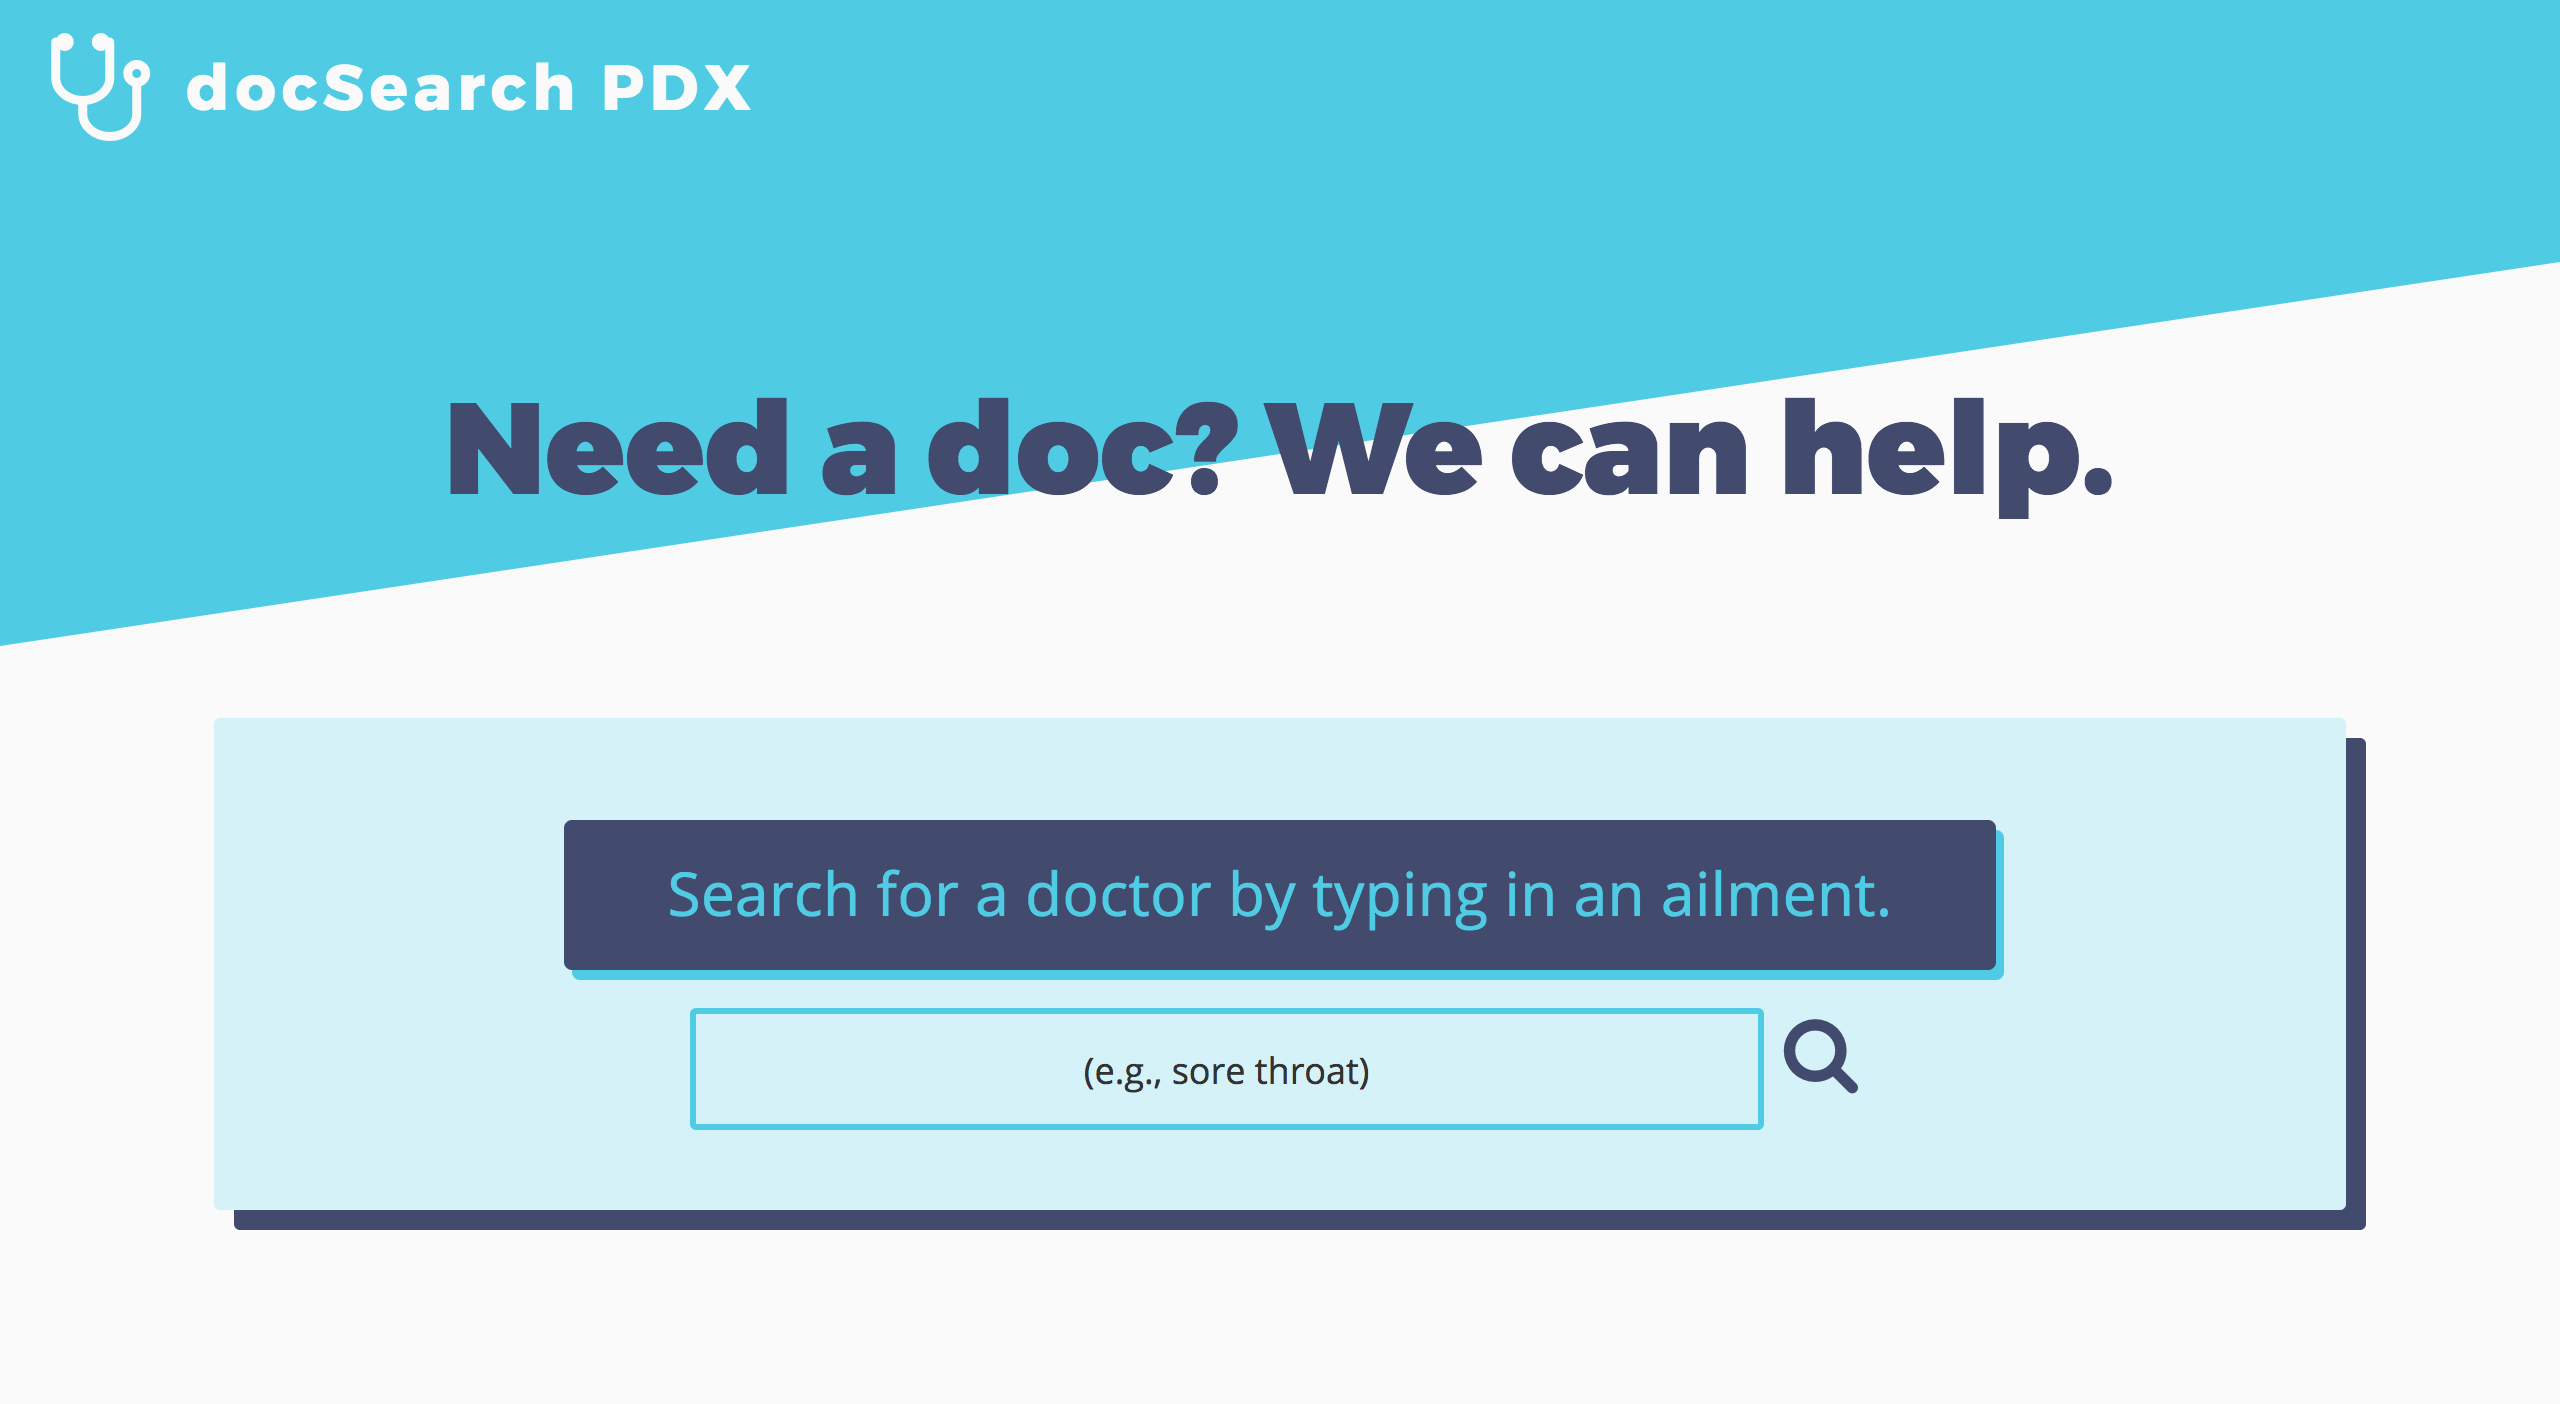
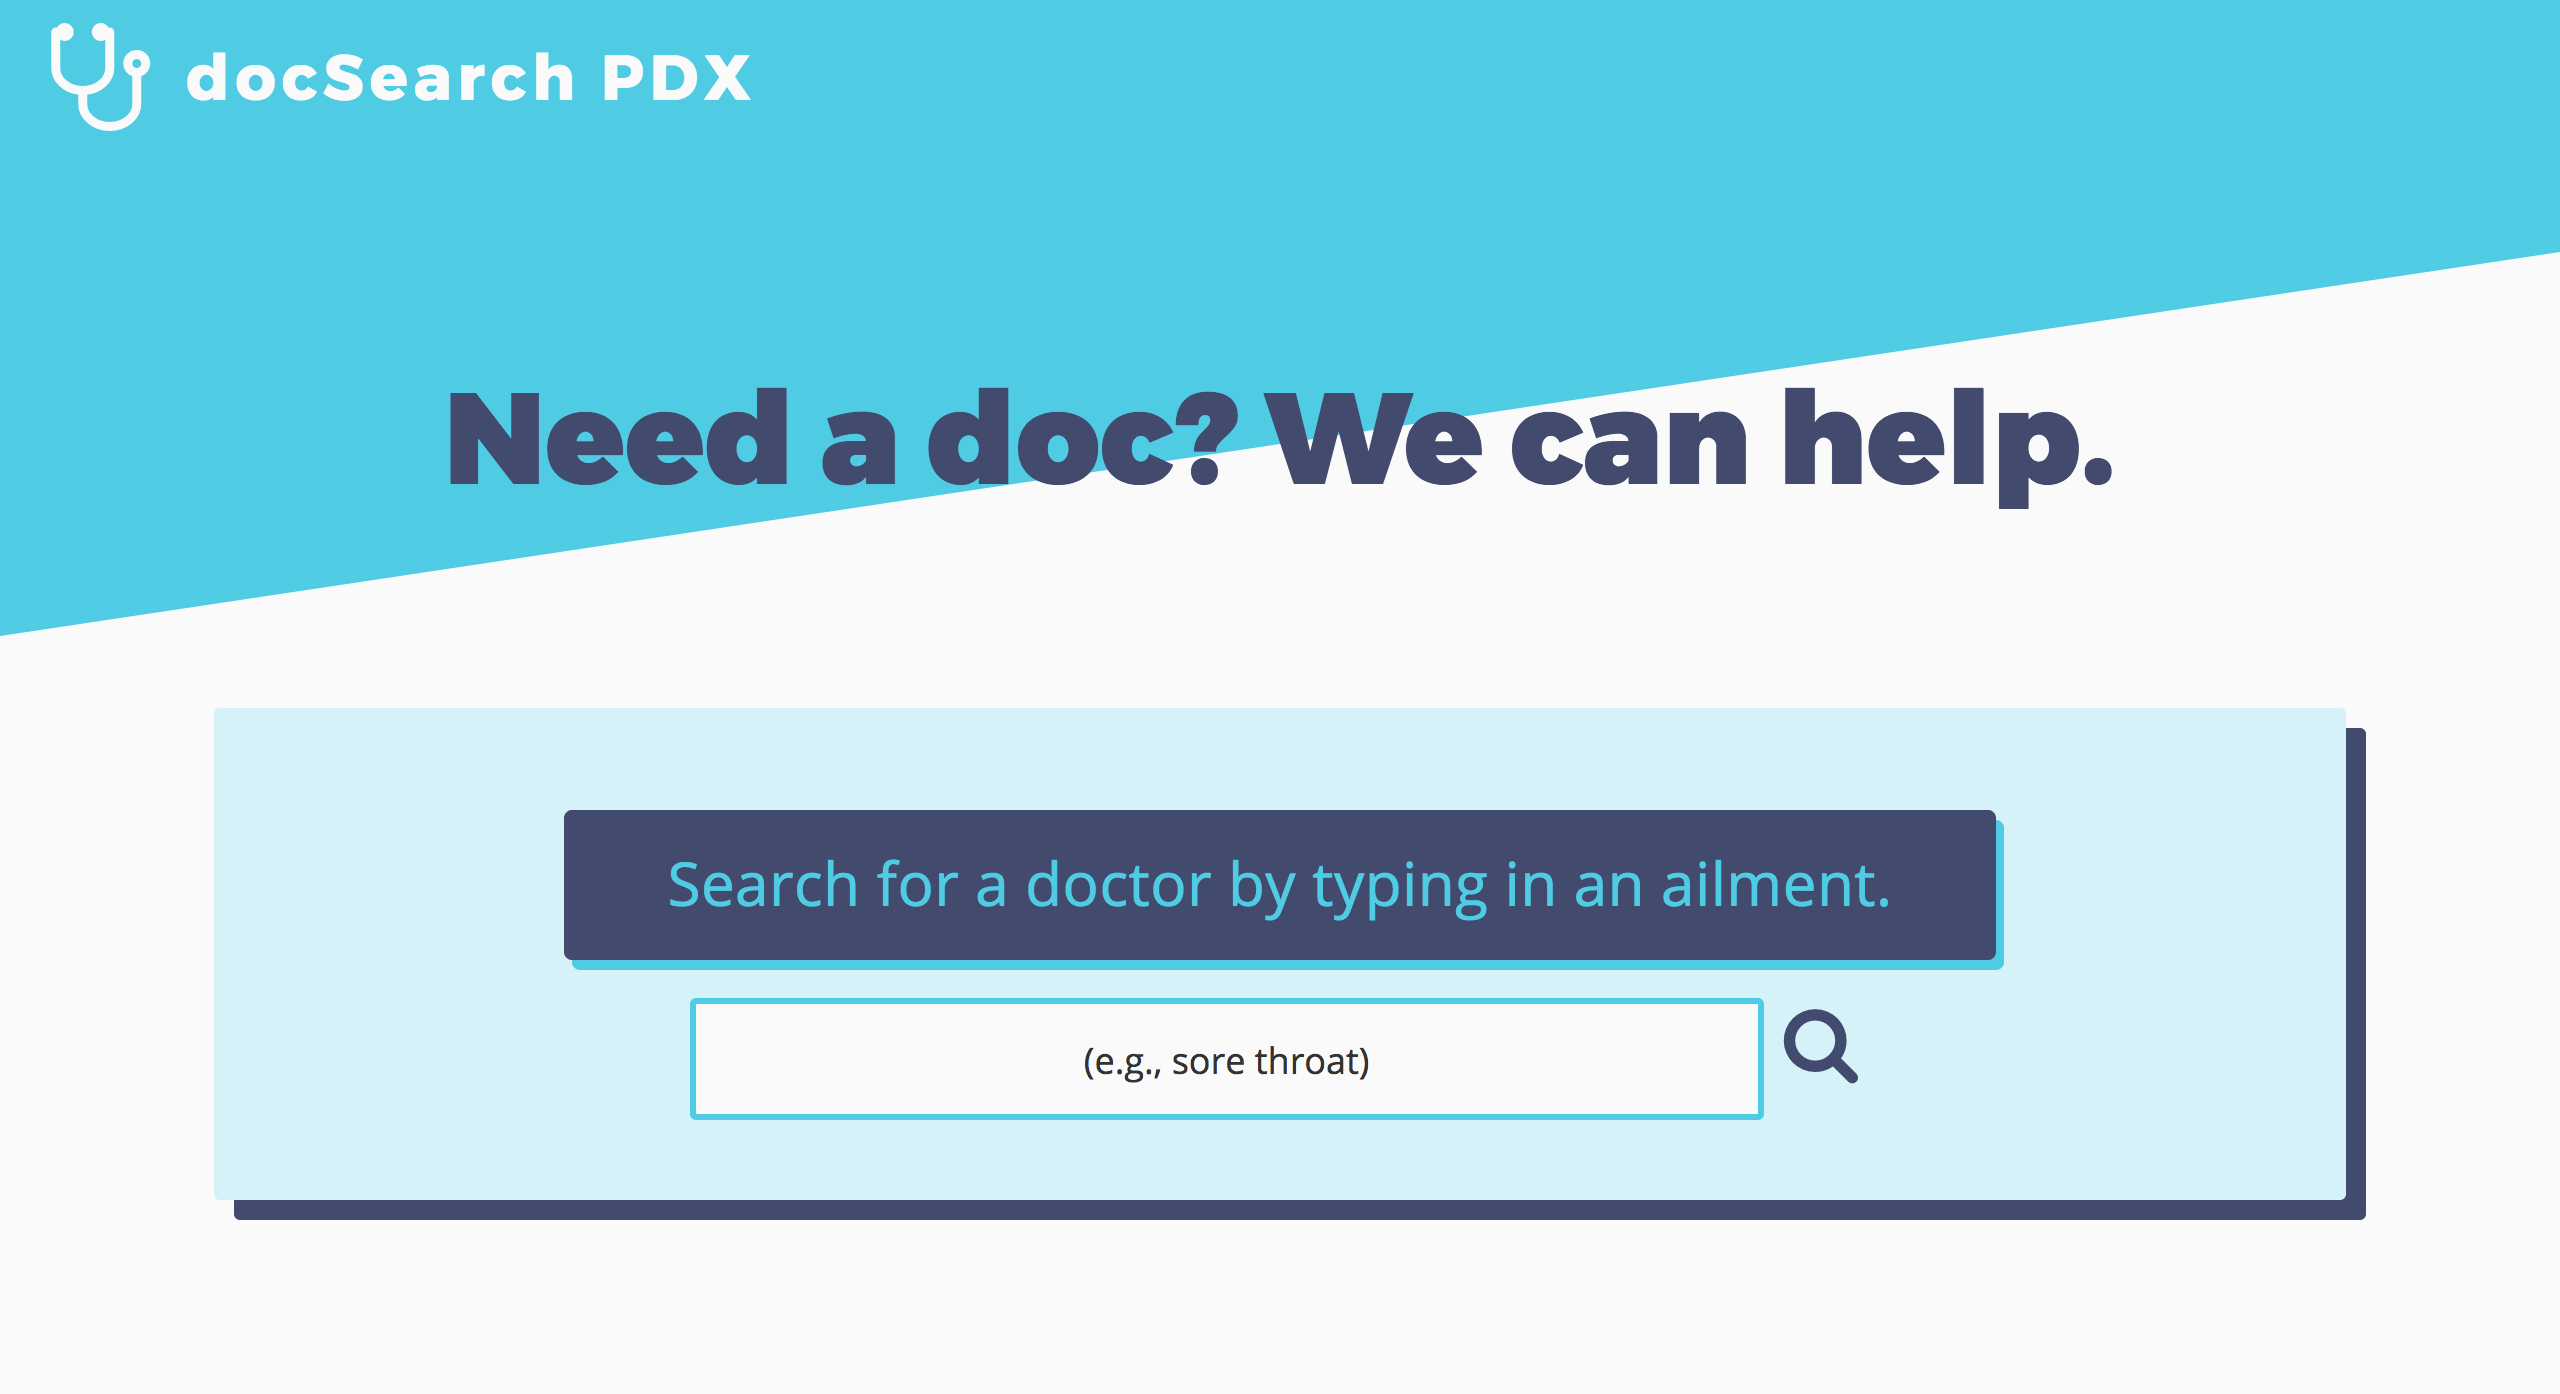
Change input field bg color and add new screenshots

diff --git a/js/scripts-interface.js b/js/scripts-interface.js
@@ -8,7 +8,7 @@ result.data.forEach(function(doctor) {
     doctor.practices[0].name +
 
     // Doctor specialty
-    "</li><li><h3>Expertise:</h3><li>" + doctor.specialties[0].description + 
+    "</li><li><h3>Expertise:</h3><li>" + doctor.specialties[0].description +
 
     // Doctor biography
     "</li><h3>Biography:</h3><li>" +
@@ -47,15 +47,13 @@ result.data.forEach(function(doctor) {
 
 $(function() {
   var newDoctor = new Doctor();
-  var searchInput;
 
   $('.search-form').submit(function(e) {
     e.preventDefault();
-    searchInput = $('.search-input').val();
+    var searchInput = $('.search-input').val();
 
     // Clear input for every submit
-    $(".result").empty();
-
+    $('.result').empty();
     newDoctor.getDoctor(searchInput, doctorInfo);
   });
 });

diff --git a/scss/layout/_content.scss b/scss/layout/_content.scss
@@ -36,6 +36,7 @@
       color: $headline;
       border: 3px solid $accent;
       font-size: 18px;
+      background-color: $white;
       &:focus {
         border: 3px solid $headline;
         border-bottom: $headline;
